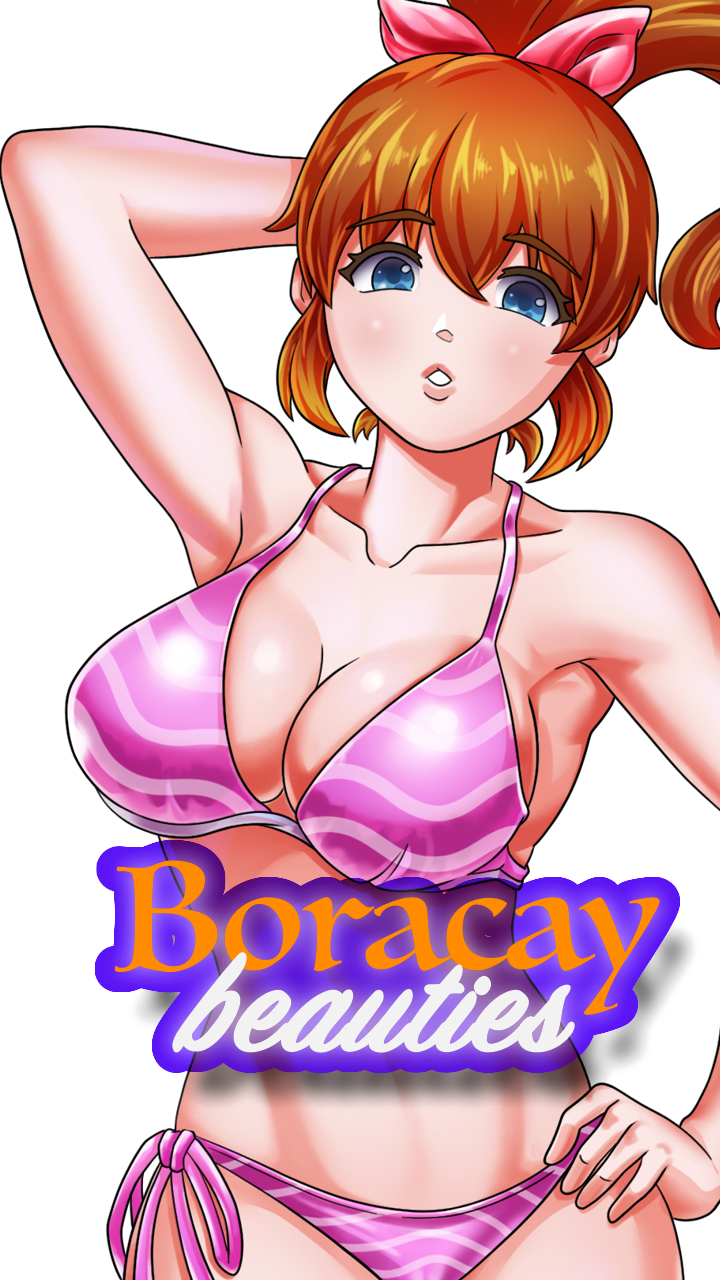
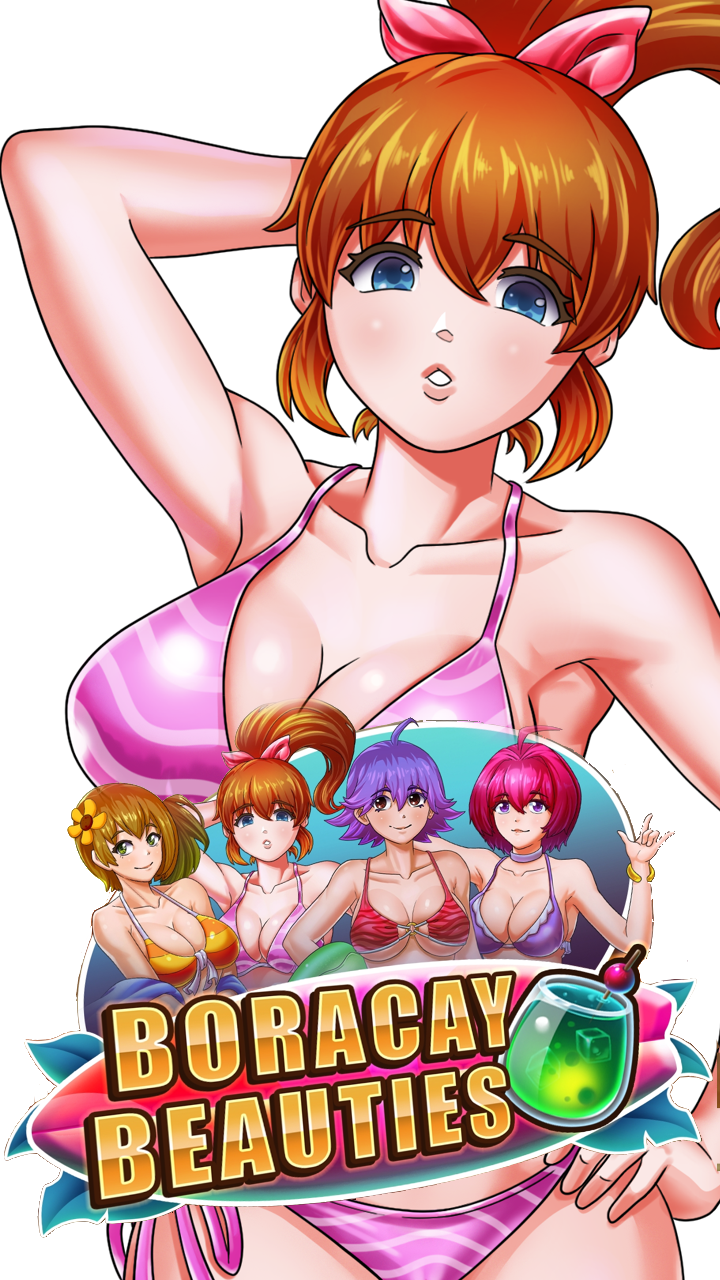
Added boracay beauties

Changed region(s): [[0.0, 0.5312, 1.0, 0.9688]]

diff --git a/index.html b/index.html
@@ -551,6 +551,42 @@
             </div>
           </div>
         </li>
+
+        <li class="shot-thumbnail js-thumbnail shot-thumbnail-container">
+          <div class="js-thumbnail-base shot-thumbnail-base ">
+            <figure class="js-thumbnail-placeholder shot-thumbnail-placeholder">
+              <img alt="Fruit Fiesta" width="273" height="340" class="lazypreload lazyautosizes ls-is-cached lazyloaded"
+                src="assets/v2/games/bb_cover.jpeg"
+                sercset="assets/v2/games/ff_cover.png 320w, assets/v2/games/gm_cover.png 400w" sizes="273px">
+            </figure>
+            <a class="shot-thumbnail-link pbg-link js-shot-link"
+              href="https://vip.gametech88.com/gamelauncher/play/DEMO/PBG_BORACAY_BEAUTIES">
+              <span class="accessibility-text">Play Demo</span>
+            </a>
+            <div class="shot-thumbnail-overlay">
+              <div class="shot-thumbnail-overlay-content">
+                <div class="shot-title">
+                  Boracay Beauties
+                </div>
+                <ul class="js-pbg-shot-actions shot-actions-container">
+                  <li data-bucket-container="true" class="shot-action">
+                    <a class="bucket-shot btn2 btn2--secondary-alt" title="Play Demo"
+                      href="https://vip.gametech88.com/gamelauncher/play/DEMO/PBG_BORACAY_BEAUTIES">
+                      Play Demo
+                    </a>
+                  </li>
+                </ul>
+              </div>
+            </div>
+          </div>
+          <div class="shot-details-container js-shot-details-container">
+            <div class="user-information">
+              <div>Boracay Beauties is an exciting five-reel, three-row online slot game that transports players to the
+                stunning beaches of Boracay, Philippines.
+              </div>
+            </div>
+          </div>
+        </li>
       </ol>
 
       <a class="home-feed__cta btn2 btn2--secondary btn2--large" href="#ourgames">Browse more
